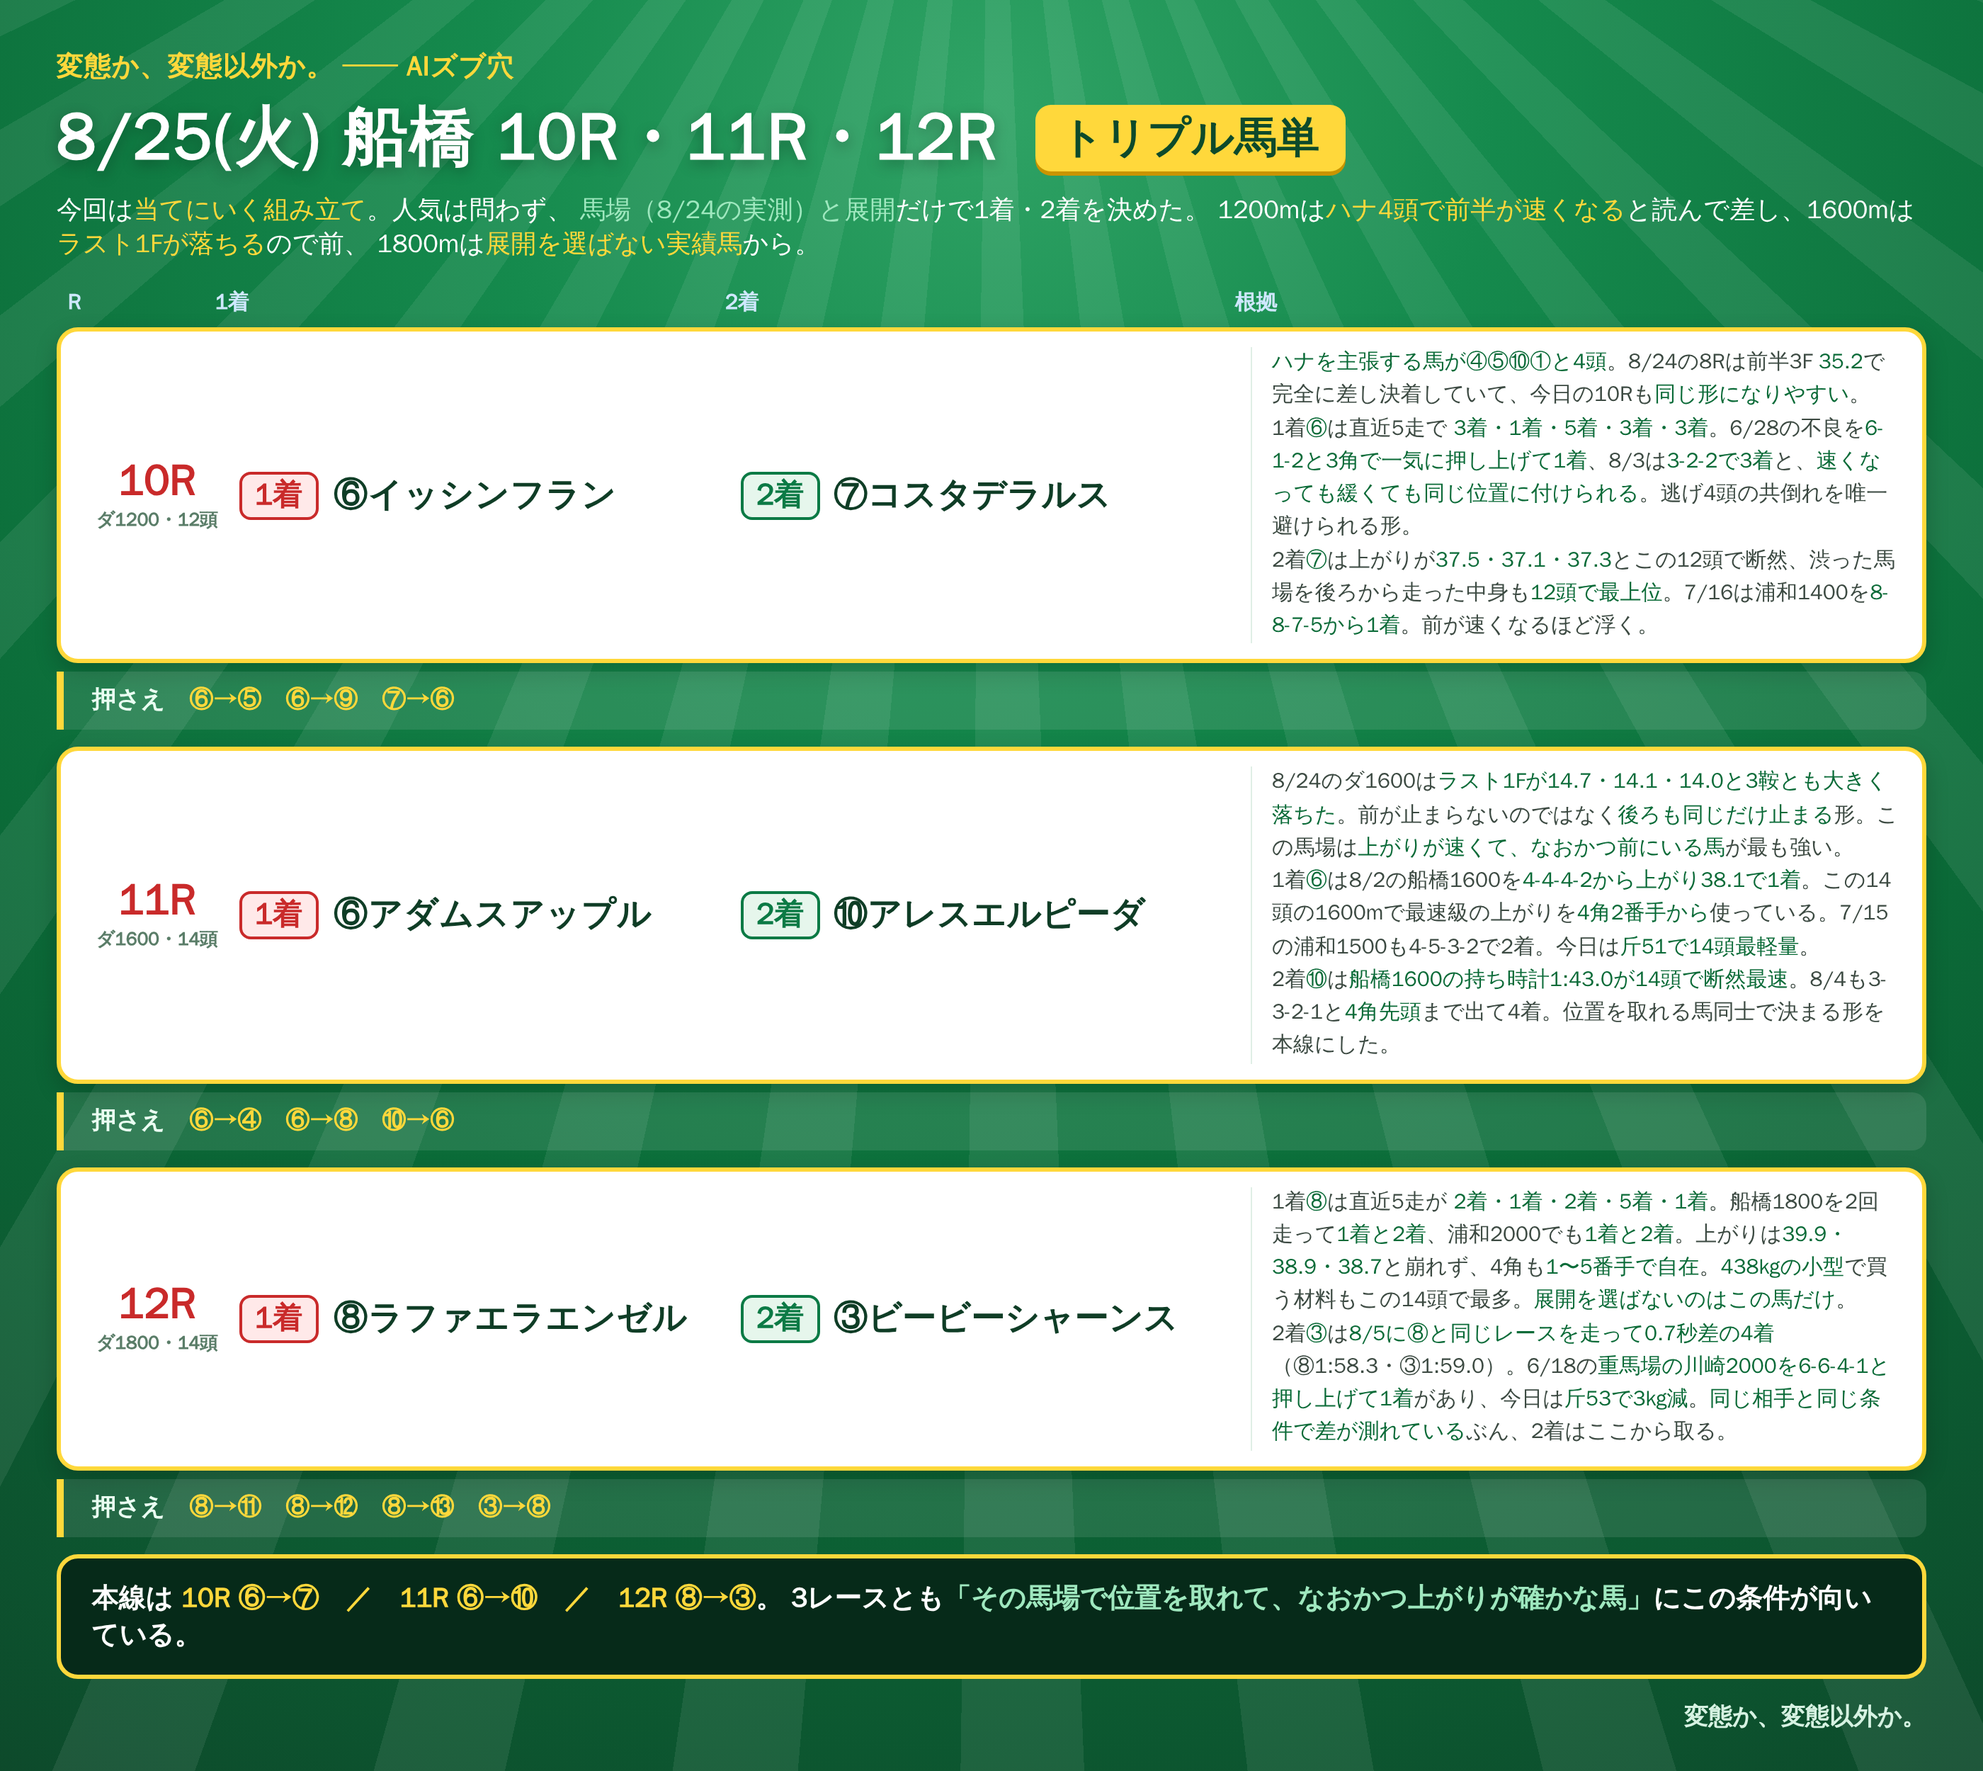
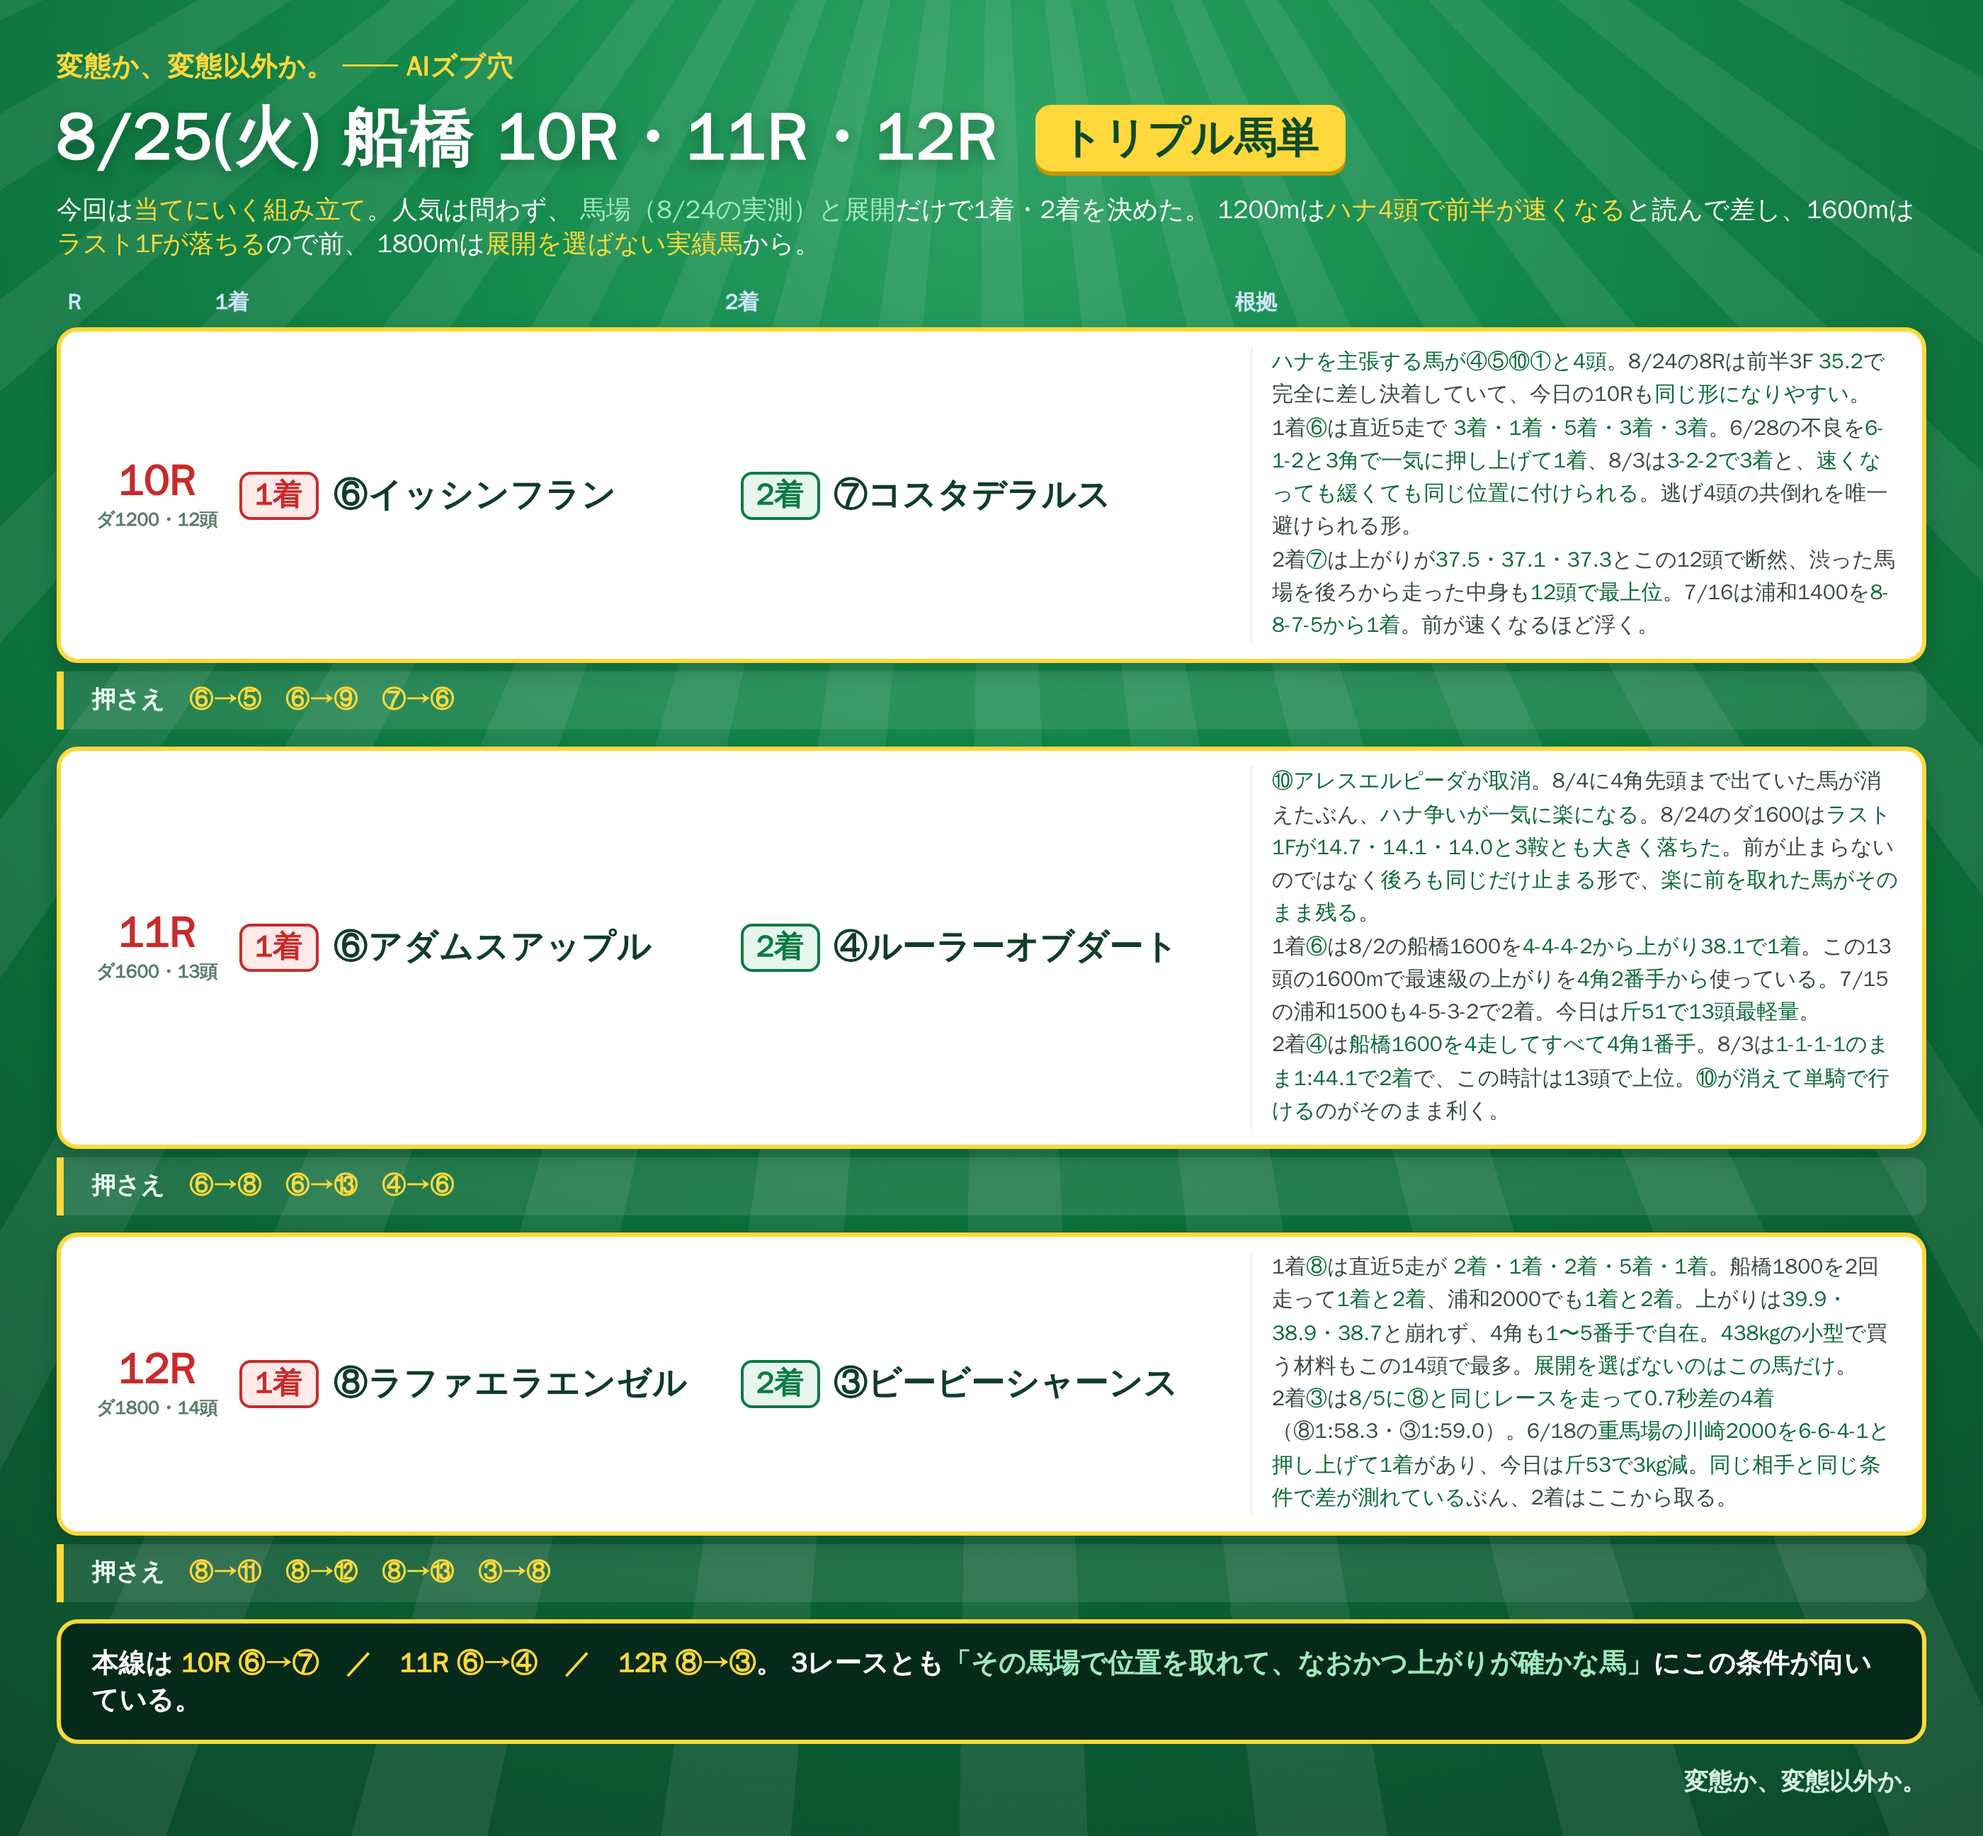
8/25 船橋 11R ⑩アレスエルピーダ取消を反映
14頭→13頭。⑩が抜けて④ルーラーオブダートが単騎で行ける形に。
- ズブ穴 11R ヒモ ⑩⑬ → ⑬④
- 馬単 11R 本線 ⑥→⑩ → ⑥→④、押さえも組み直し

Claude-Session: https://claude.ai/code/session_01RoHscZkr96FNaxQWvUqgEw

diff --git a/notes/live/2026-08-25/funabashi_triple_umatan.html b/notes/live/2026-08-25/funabashi_triple_umatan.html
@@ -68,12 +68,12 @@
   <div class="osae">押さえ　<span class="y">⑥→⑤　⑥→⑨　⑦→⑥</span></div>
 
   <div class="row">
-    <div class="rN"><div class="n">11R</div><div class="d">ダ1600・14頭</div></div>
+    <div class="rN"><div class="n">11R</div><div class="d">ダ1600・13頭</div></div>
     <div class="hm"><span class="mk">1着</span><span class="nm">⑥アダムスアップル</span></div>
-    <div class="at"><span class="mk2">2着</span><span class="nm2">⑩アレスエルピーダ</span></div>
-    <div class="memo">8/24のダ1600は<b>ラスト1Fが14.7・14.1・14.0と3鞍とも大きく落ちた</b>。前が止まらないのではなく<b>後ろも同じだけ止まる</b>形。この馬場は<b>上がりが速くて、なおかつ前にいる馬</b>が最も強い。<br>1着<b>⑥</b>は8/2の船橋1600を<b>4-4-4-2から上がり38.1で1着</b>。この14頭の1600mで最速級の上がりを<b>4角2番手から</b>使っている。7/15の浦和1500も4-5-3-2で2着。今日は<b>斤51で14頭最軽量</b>。<br>2着<b>⑩</b>は<b>船橋1600の持ち時計1:43.0が14頭で断然最速</b>。8/4も3-3-2-1と<b>4角先頭</b>まで出て4着。位置を取れる馬同士で決まる形を本線にした。</div>
+    <div class="at"><span class="mk2">2着</span><span class="nm2">④ルーラーオブダート</span></div>
+    <div class="memo"><b>⑩アレスエルピーダが取消</b>。8/4に4角先頭まで出ていた馬が消えたぶん、<b>ハナ争いが一気に楽になる</b>。8/24のダ1600は<b>ラスト1Fが14.7・14.1・14.0と3鞍とも大きく落ちた</b>。前が止まらないのではなく<b>後ろも同じだけ止まる</b>形で、<b>楽に前を取れた馬がそのまま残る</b>。<br>1着<b>⑥</b>は8/2の船橋1600を<b>4-4-4-2から上がり38.1で1着</b>。この13頭の1600mで最速級の上がりを<b>4角2番手から</b>使っている。7/15の浦和1500も4-5-3-2で2着。今日は<b>斤51で13頭最軽量</b>。<br>2着<b>④</b>は<b>船橋1600を4走してすべて4角1番手</b>。8/3は<b>1-1-1-1のまま1:44.1で2着</b>で、この時計は13頭で上位。<b>⑩が消えて単騎で行ける</b>のがそのまま利く。</div>
   </div>
-  <div class="osae">押さえ　<span class="y">⑥→④　⑥→⑧　⑩→⑥</span></div>
+  <div class="osae">押さえ　<span class="y">⑥→⑧　⑥→⑬　④→⑥</span></div>
 
   <div class="row">
     <div class="rN"><div class="n">12R</div><div class="d">ダ1800・14頭</div></div>
@@ -83,7 +83,7 @@
   </div>
   <div class="osae">押さえ　<span class="y">⑧→⑪　⑧→⑫　⑧→⑬　③→⑧</span></div>
 
-  <div class="foot">本線は <span class="y">10R ⑥→⑦　／　11R ⑥→⑩　／　12R ⑧→③</span>。
+  <div class="foot">本線は <span class="y">10R ⑥→⑦　／　11R ⑥→④　／　12R ⑧→③</span>。
   3レースとも<span class="c">「その馬場で位置を取れて、なおかつ上がりが確かな馬」</span>にこの条件が向いている。</div>
   <div class="sig">変態か、変態以外か。</div>
 </div></div>

diff --git a/notes/live/2026-08-25/funabashi_7_12.html b/notes/live/2026-08-25/funabashi_7_12.html
@@ -84,10 +84,10 @@
   </div>
 
   <div class="row">
-    <div class="rN"><div class="n">11R</div><div class="d">ダ1600・14頭</div></div>
+    <div class="rN"><div class="n">11R</div><div class="d">ダ1600・13頭</div></div>
     <div class="hm"><span class="mk">◎</span><span class="nm">⑤ベルガラス</span></div>
     <div class="at"><span class="mk2">○</span><span class="nm2">⑥アダムスアップル</span></div>
-    <div class="memo">◎⑤は<b>渋った馬場を後ろから走った中身がこの14頭で最上位</b>（本物3）。6/26の<b>不良の浦和1500を10-10-8-8から上がり36.5で2着</b>、8/12の<b>不良の浦和2000も9-9-6-5で3着</b>。8/4の船橋1600は9着でも<b>上がり38.2はメンバー最速級</b>だった。前走11番人気・その前10番人気と<b>人気を落としたまま走れている</b>。○⑥は8/2の船橋1600を<b>4-4-4-2から上がり38.1で1着</b>。今日は<b>斤51で14頭最軽量</b>。位置と上がりが両方ある。ヒモ⑩⑬</div>
+    <div class="memo">◎⑤は<b>渋った馬場を後ろから走った中身がこの13頭で最上位</b>（本物3）。6/26の<b>不良の浦和1500を10-10-8-8から上がり36.5で2着</b>、8/12の<b>不良の浦和2000も9-9-6-5で3着</b>。8/4の船橋1600は9着でも<b>上がり38.2はメンバー最速級</b>だった。前走11番人気・その前10番人気と<b>人気を落としたまま走れている</b>。○⑥は8/2の船橋1600を<b>4-4-4-2から上がり38.1で1着</b>。今日は<b>斤51で13頭最軽量</b>。位置と上がりが両方ある。<b class='r'>⑩アレスエルピーダは取消。</b>ヒモ⑬④</div>
   </div>
 
   <div class="row">

diff --git a/notes/live/2026-08-25/README.md b/notes/live/2026-08-25/README.md
@@ -92,7 +92,7 @@
 | 8R | ダ1200・12頭 | 🔥⑧サンリコリス | ⑤ファストレーン | ⑩⑫ |
 | 9R | ダ1500・13頭 | 🔥⑬オスマンサス | ⑧サウンドコネクト | ⑫⑪ |
 | 10R | ダ1200・12頭 | ⑦コスタデラルス | ⑥イッシンフラン | ⑨⑧ |
-| 11R | ダ1600・14頭 | ⑤ベルガラス | ⑥アダムスアップル | ⑩⑬ |
+| 11R | ダ1600・13頭 | ⑤ベルガラス | ⑥アダムスアップル | ⑬④ |
 | 12R | ダ1800・14頭 | ③ビービーシャーンス | ⑧ラファエラエンゼル | ⑪⑩ |
 
 勝負: **8R・9R**
@@ -128,11 +128,27 @@
 | R | 1着 | 2着 | 押さえ |
 |---|---|---|---|
 | 10R | ⑥イッシンフラン | ⑦コスタデラルス | ⑥→⑤　⑥→⑨　⑦→⑥ |
-| 11R | ⑥アダムスアップル | ⑩アレスエルピーダ | ⑥→④　⑥→⑧　⑩→⑥ |
+| 11R | ⑥アダムスアップル | ④ルーラーオブダート | ⑥→⑧　⑥→⑬　④→⑥ |
 | 12R | ⑧ラファエラエンゼル | ③ビービーシャーンス | ⑧→⑪　⑧→⑫　⑧→⑬　③→⑧ |
 
-本線: **10R ⑥→⑦ ／ 11R ⑥→⑩ ／ 12R ⑧→③**
+本線: **10R ⑥→⑦ ／ 11R ⑥→④ ／ 12R ⑧→③**
 
 - 10R … ズブ穴の◎○（⑦・⑥）と同じ2頭。**順序だけ逆**にした（当てにいくので勝率の高い⑥を1着に）
 - 11R … ズブ穴の◎は⑤ベルガラス（10〜11番人気で走る馬）だが、馬単では**前走1600mを1番人気で勝った⑥**を1着に置いた
 - 12R … ズブ穴の◎○（③・⑧）と同じ2頭で、**順序だけ逆**
+
+## 11R ⑩アレスエルピーダ 取消（当日変更）
+
+船橋1600の持ち時計1:43.0が断然で、8/4に4角先頭まで出ていた馬が抜けた。**14頭 → 13頭**。
+
+| | 変更前 | 変更後 |
+|---|---|---|
+| ズブ穴 11R ヒモ | ⑩⑬ | **⑬④** |
+| 馬単 11R 本線 | ⑥→⑩ | **⑥→④** |
+| 馬単 11R 押さえ | ⑥→④　⑥→⑧　⑩→⑥ | **⑥→⑧　⑥→⑬　④→⑥** |
+
+⑩が消えたことで**④ルーラーオブダートが単騎で行ける**。
+船橋1600を4走してすべて4角1番手、8/3は1-1-1-1のまま**1:44.1で2着（7番人気）**。
+8/24のダ1600はラスト1Fが14.7／14.1／14.0と3鞍とも落ちていて、**楽に前を取れた馬がそのまま残る**形。
+◎⑤ベルガラス（後ろから行く馬）にとってはペースが緩む分だけマイナスだが、
+6/26の不良の浦和1500を10-10-8-8から上36.5で2着した脚は変わらないのでそのまま置いた。
